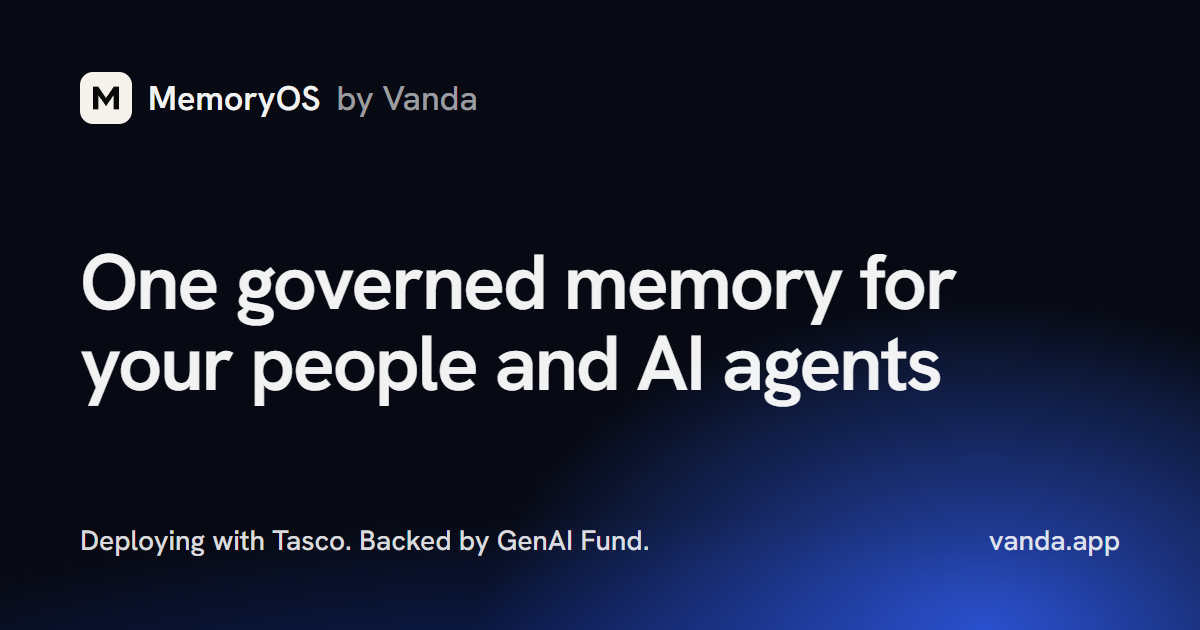
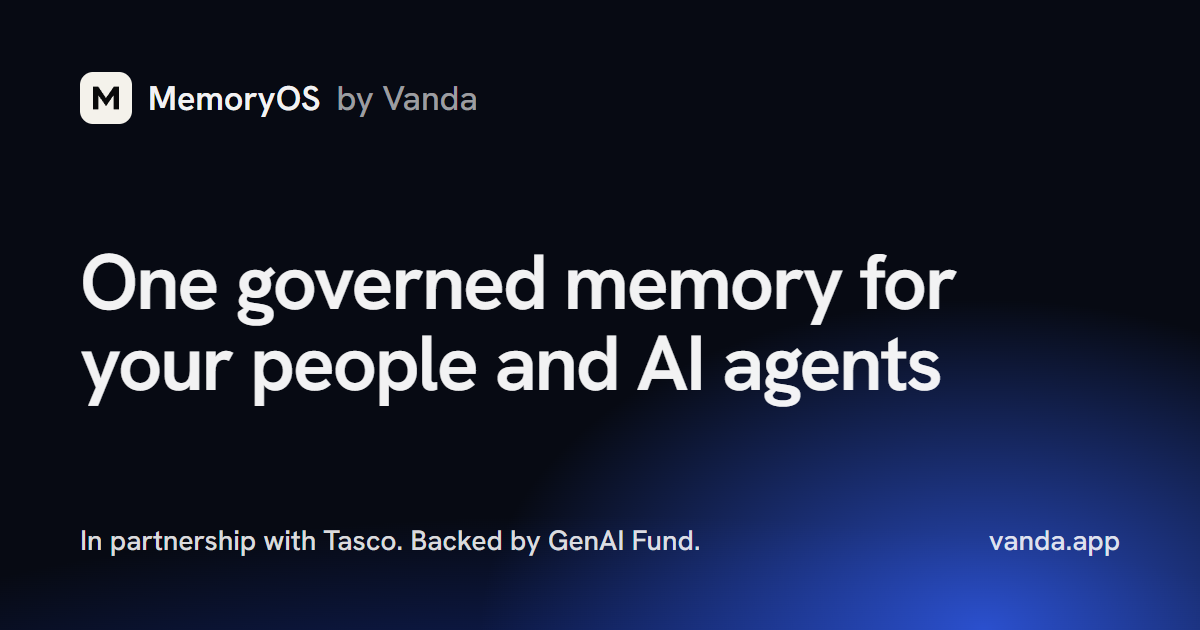
fix(landing): name Tasco as a partner, not a customer
The trust strip, roadmap, FAQ and Open Graph image now describe the Production PoC as a partnership with Tasco, and the design records that the page never calls Tasco a customer.

Changed region(s): [[0.0617, 0.8444, 0.5858, 0.8746]]

diff --git a/landing/src/content.ts b/landing/src/content.ts
@@ -107,8 +107,8 @@ type TrustSignal = Entry & {
 
 const trustSignals: readonly TrustSignal[] = [
   {
-    title: "Deploying with Tasco",
-    description: "Tasco runs MemoryOS in a Production PoC from September to December 2026.",
+    title: "Partnering with Tasco",
+    description: "Vanda and Tasco run a MemoryOS Production PoC from September to December 2026.",
     logo: { src: tascoLogo, label: "Tasco" },
   },
   {
@@ -337,7 +337,7 @@ const roadmap: SectionIntro & {
 } = {
   title: "From Production PoC to company-wide memory",
   description:
-    "The Tasco Production PoC runs from September to December 2026, and each month ends with a working deliverable.",
+    "The Production PoC with our partner Tasco runs from September to December 2026, and each month ends with a working deliverable.",
   milestones: [
     {
       period: "September 2026",
@@ -421,9 +421,9 @@ const faq: SectionIntro & { items: readonly { question: string; answer: string }
         "Google Drive, uploaded files, OpenAPI and REST APIs, and other business systems your company approves. Docling and OCR process documents, including scanned files.",
     },
     {
-      question: "Who uses MemoryOS today?",
+      question: "Who does Vanda work with?",
       answer:
-        "Tasco is deploying MemoryOS in a Production PoC from September to December 2026. Vanda is backed by GenAI Fund.",
+        "Vanda partners with Tasco on a MemoryOS Production PoC from September to December 2026, and is backed by GenAI Fund.",
     },
     {
       question: "How do we start?",

diff --git a/landing/scripts/og-image.html b/landing/scripts/og-image.html
@@ -82,7 +82,7 @@
     </div>
     <h1>One governed memory for your people and AI agents</h1>
     <div class="footer">
-      <p>Deploying with Tasco. Backed by GenAI Fund.</p>
+      <p>In partnership with Tasco. Backed by GenAI Fund.</p>
       <p>vanda.app</p>
     </div>
   </body>

diff --git a/docs/increments/active/mem-82-landing-page/design.md b/docs/increments/active/mem-82-landing-page/design.md
@@ -10,7 +10,7 @@ Linear: [MEM-82](https://linear.app/memory-os/issue/MEM-82).
 
 - Organization **Vanda** (`vanda.app`, contact `aws@vanda.app`); product **MemoryOS** ("MemoryOS by Vanda"); **Backed by GenAI Fund**. English only.
 - The page presents the complete product: the problem MemoryOS solves, its full capability set from the Production PoC scope of work, and its direction beyond the PoC. It carries no per-feature delivery-status labels. Delivery status remains in [the roadmap](../../../roadmap.md), not on the marketing page.
-- Tasco is named as the customer deploying the Production PoC (September–December 2026). No Tasco pricing, internal architecture, users or data appear.
+- Tasco is named as Vanda's partner in the Production PoC (September–December 2026), never as a customer. No Tasco pricing, internal architecture, users or data appear.
 - The site serves the apex `vanda.app` from the existing staging VPS, replacing the current Cloudflare redirect to `roll-bits.com`. `www.vanda.app` redirects to the apex. The Google Workspace MX records stay unchanged.
 - Laura, who approves external MEM-80 material, reviews the content before the link is sent to AWS.
 
@@ -36,7 +36,7 @@ Kept: the section composition, one typed content module, the bento capability gr
 
 1. **Header** — MemoryOS mark, anchors (Product, How it works, Deployment, Roadmap, FAQ), light/dark theme toggle (inside the menu below `md`), Contact action (`mailto:aws@vanda.app`), skip link.
 2. **Hero** — the positioning, Contact and "See how it works" actions, product preview.
-3. **Trust strip** — the Tasco and GenAI Fund logos with "Deploying with Tasco" and "Backed by GenAI Fund". The logos are single-colour alpha masks (`src/assets/logos/`) cropped from the product owner's files, so they take each theme's content color.
+3. **Trust strip** — the Tasco and GenAI Fund logos with "Partnering with Tasco" and "Backed by GenAI Fund". The logos are single-colour alpha masks (`src/assets/logos/`) cropped from the product owner's files, so they take each theme's content color.
 4. **Problem → solution** — two highlighted features: scattered company knowledge becomes one place to search and ask with citations; enterprise AI stays governed through one permission model shared by search, agents and MCP.
 5. **Capabilities** (bento) — data connectors; enterprise search; cited answers; Python analysis and reports; enterprise SSO; custom agents; AI asset governance; MCP server; permission-aware retrieval.
 6. **How it works** — connect → index → ask → verify, plus the security flow: SSO sign-in, ACL check before retrieval, only permitted context reaches the model.
